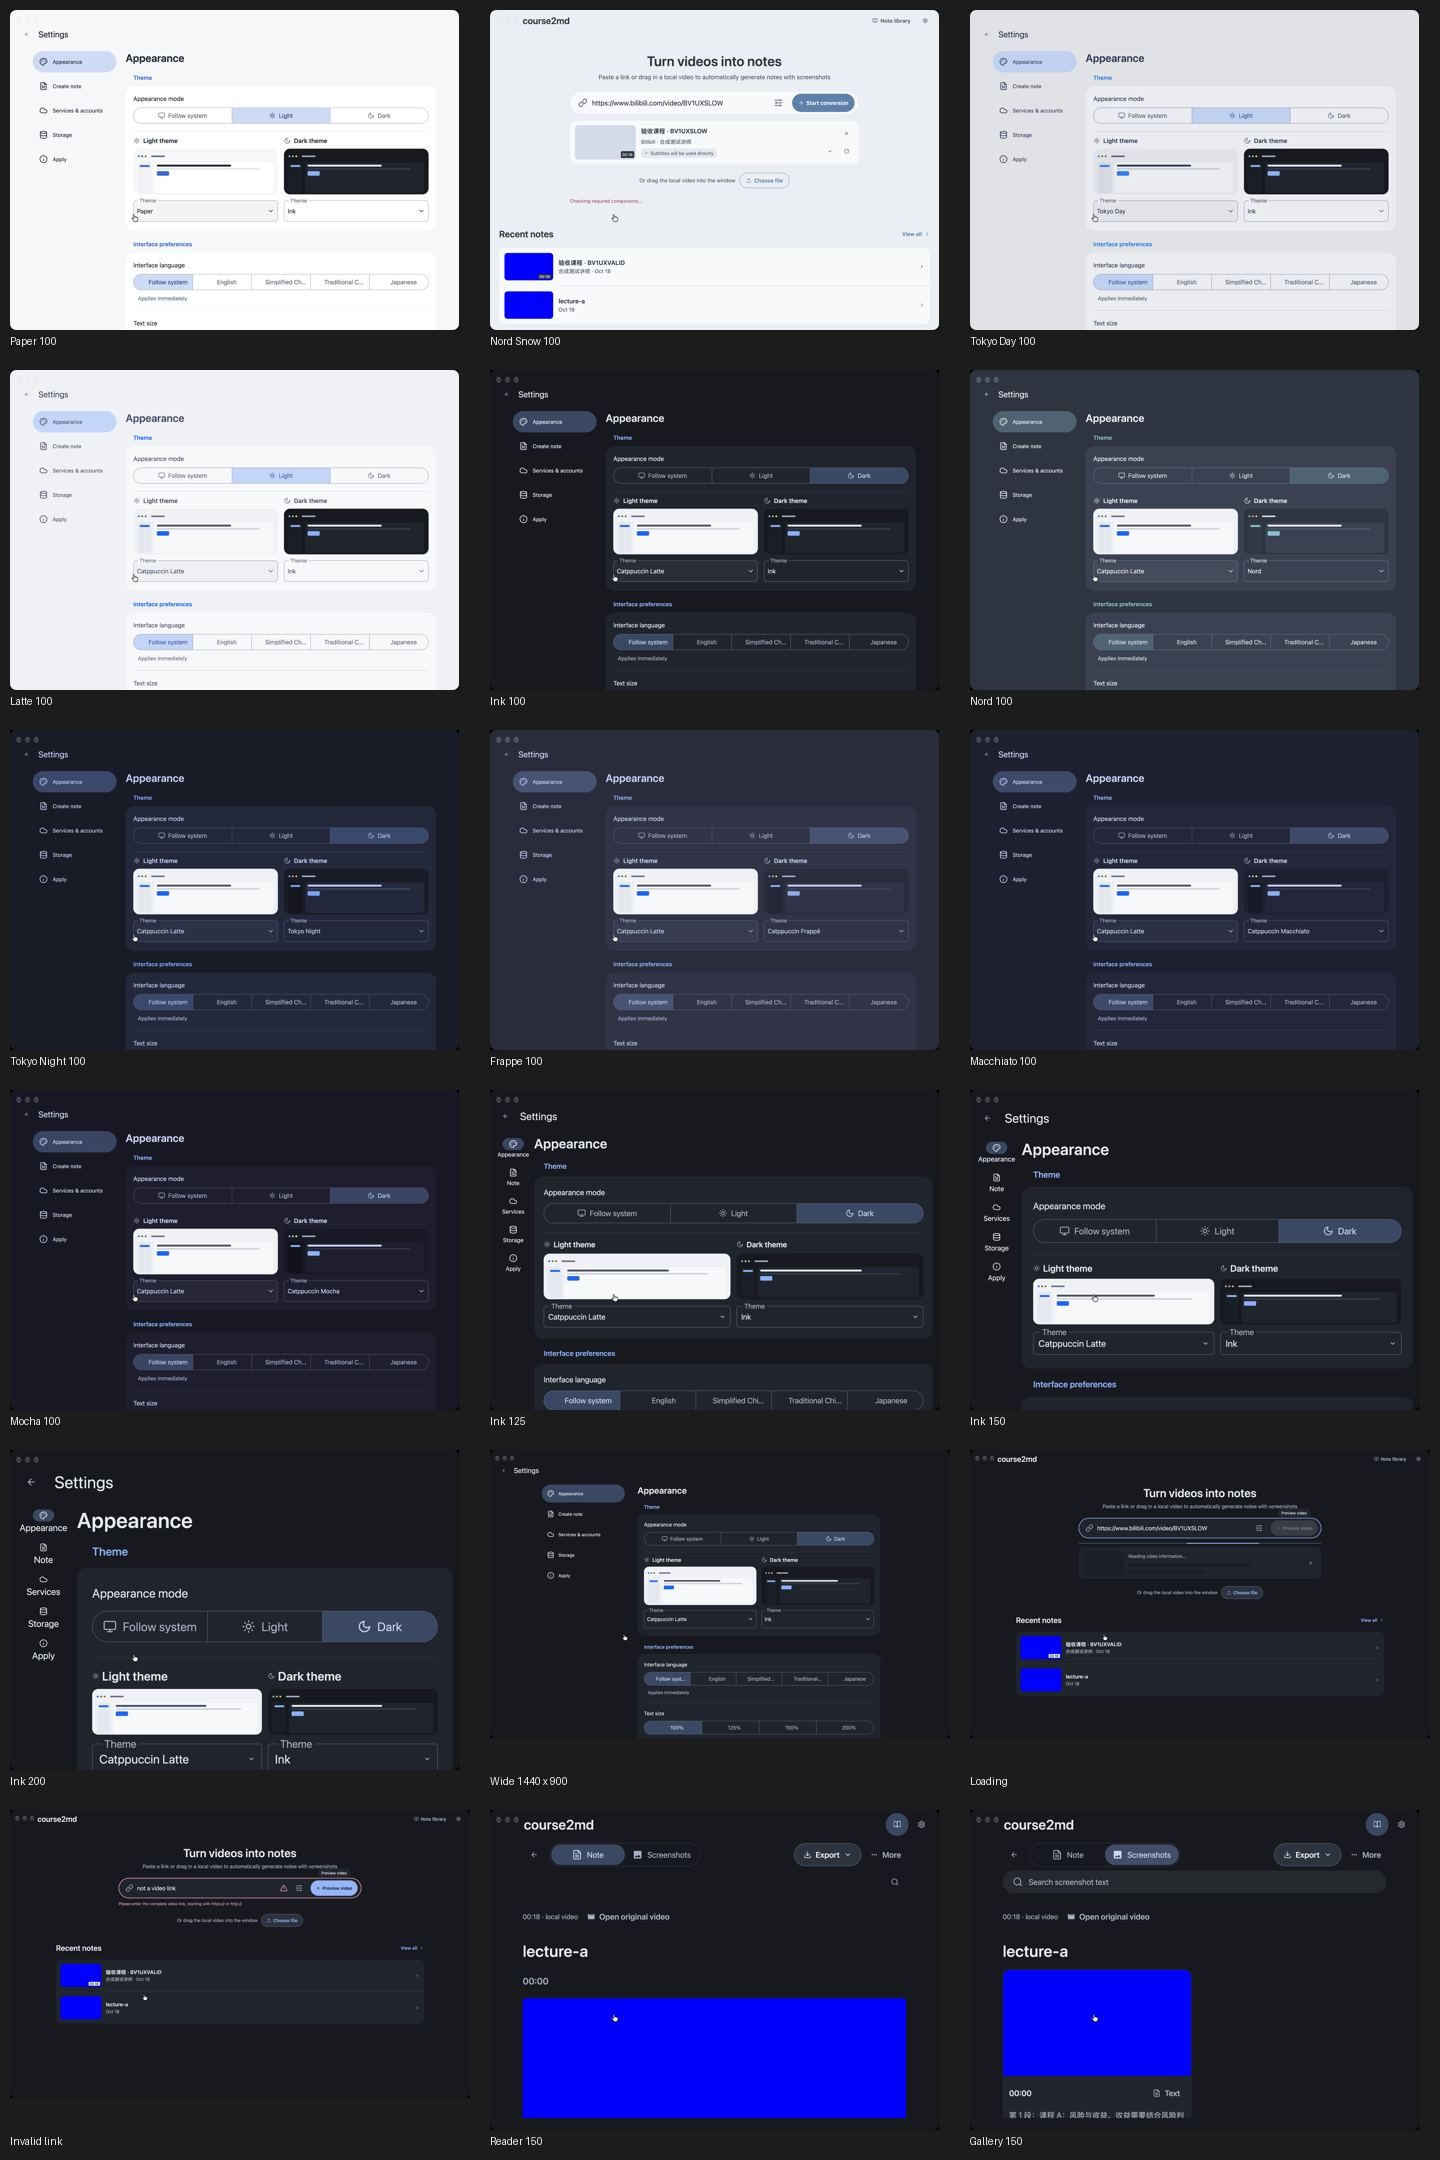
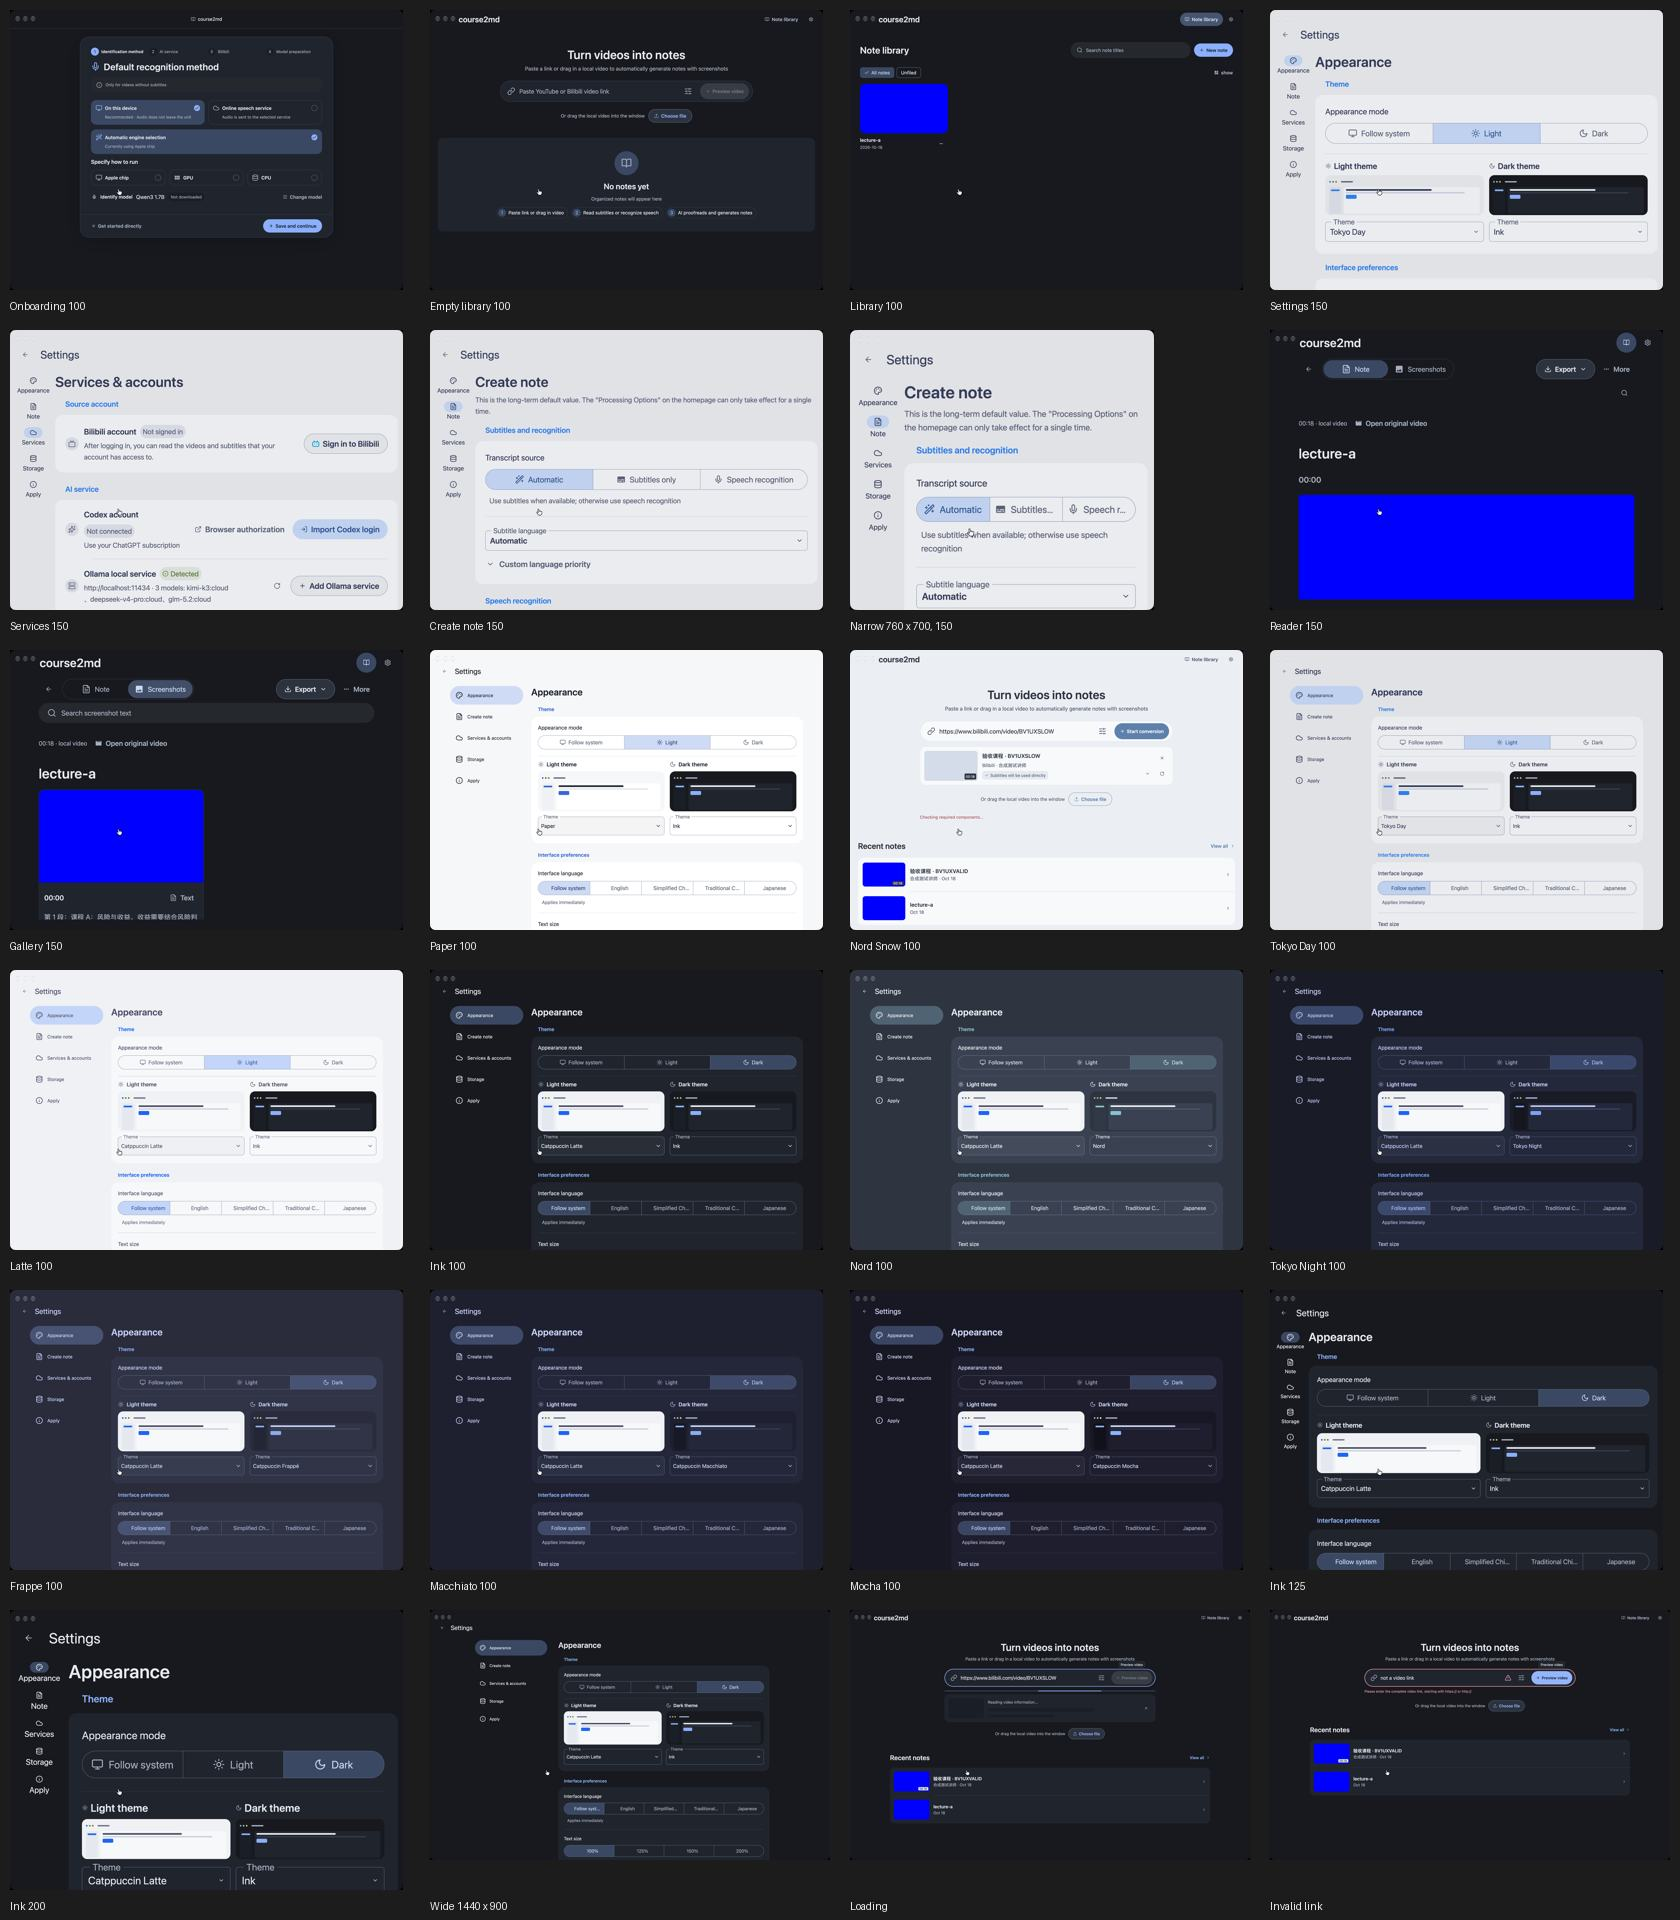
docs: refresh native review evidence

diff --git a/docs/REVIEW.md b/docs/REVIEW.md
@@ -13,7 +13,7 @@
 - 窗口：760×700、1180×840、1440×900。
 - 字号：100%、125%、150%、200%（`font_scale` 1.0/1.25/1.5/2.0）。
 - 配色：浅色 Paper、Nord Snow、Tokyo Day、Catppuccin Latte；深色 Ink、Nord、Tokyo Night、Catppuccin Frappe、Catppuccin Macchiato、Catppuccin Mocha。
-- 页面：首次设置（识别方式、AI 服务、Bilibili、模型）、主页、设置（外观、创建笔记、服务与账号）、笔记库、阅读页、截图画廊。
+- 页面：首次设置（识别方式、AI 服务、Bilibili、模型）、主页、设置（外观、创建笔记、服务与账号）、笔记库、阅读页、截图画廊；证据图包含首次设置、空库、笔记库、150% 服务与创建笔记、760 窄窗。
 - 状态：空笔记库、链接读取中、无效链接提示、预览完成、转录完成、截图页与阅读页正常；加载态与失败态都从界面实际触发。
 - 输入：链接输入、预览、开始转换、设置页导航与字号/配色切换。
 
@@ -24,6 +24,7 @@
 1. 150%/200% 字号下设置侧栏英文标签在 64px 轨道内断词。侧栏在放大字号时使用 72px 逻辑宽度并允许按词换行，保留图标 + 可见标签；760、1180、1440 宽度复检通过。
 2. 宽窗口下侧栏标签曾被 `w_full` 推到轨道中央。仅窄轨标签使用整行居中，宽侧栏恢复图标紧邻标签。
 3. 英文标签大小写/语法统一：Appearance mode、Subtitle language、Local file、Light、Subtitles will be used directly。
+4. 设置写入改为后台队列（含测试证据、服务、应用设置）；退出前 flush，失败在下一轮 poll 显示。添加笔记库的身份读取、可写探测、身份文件创建和注册全部移到后台准备，提交只更新内存。
 
 复现命令：
 
